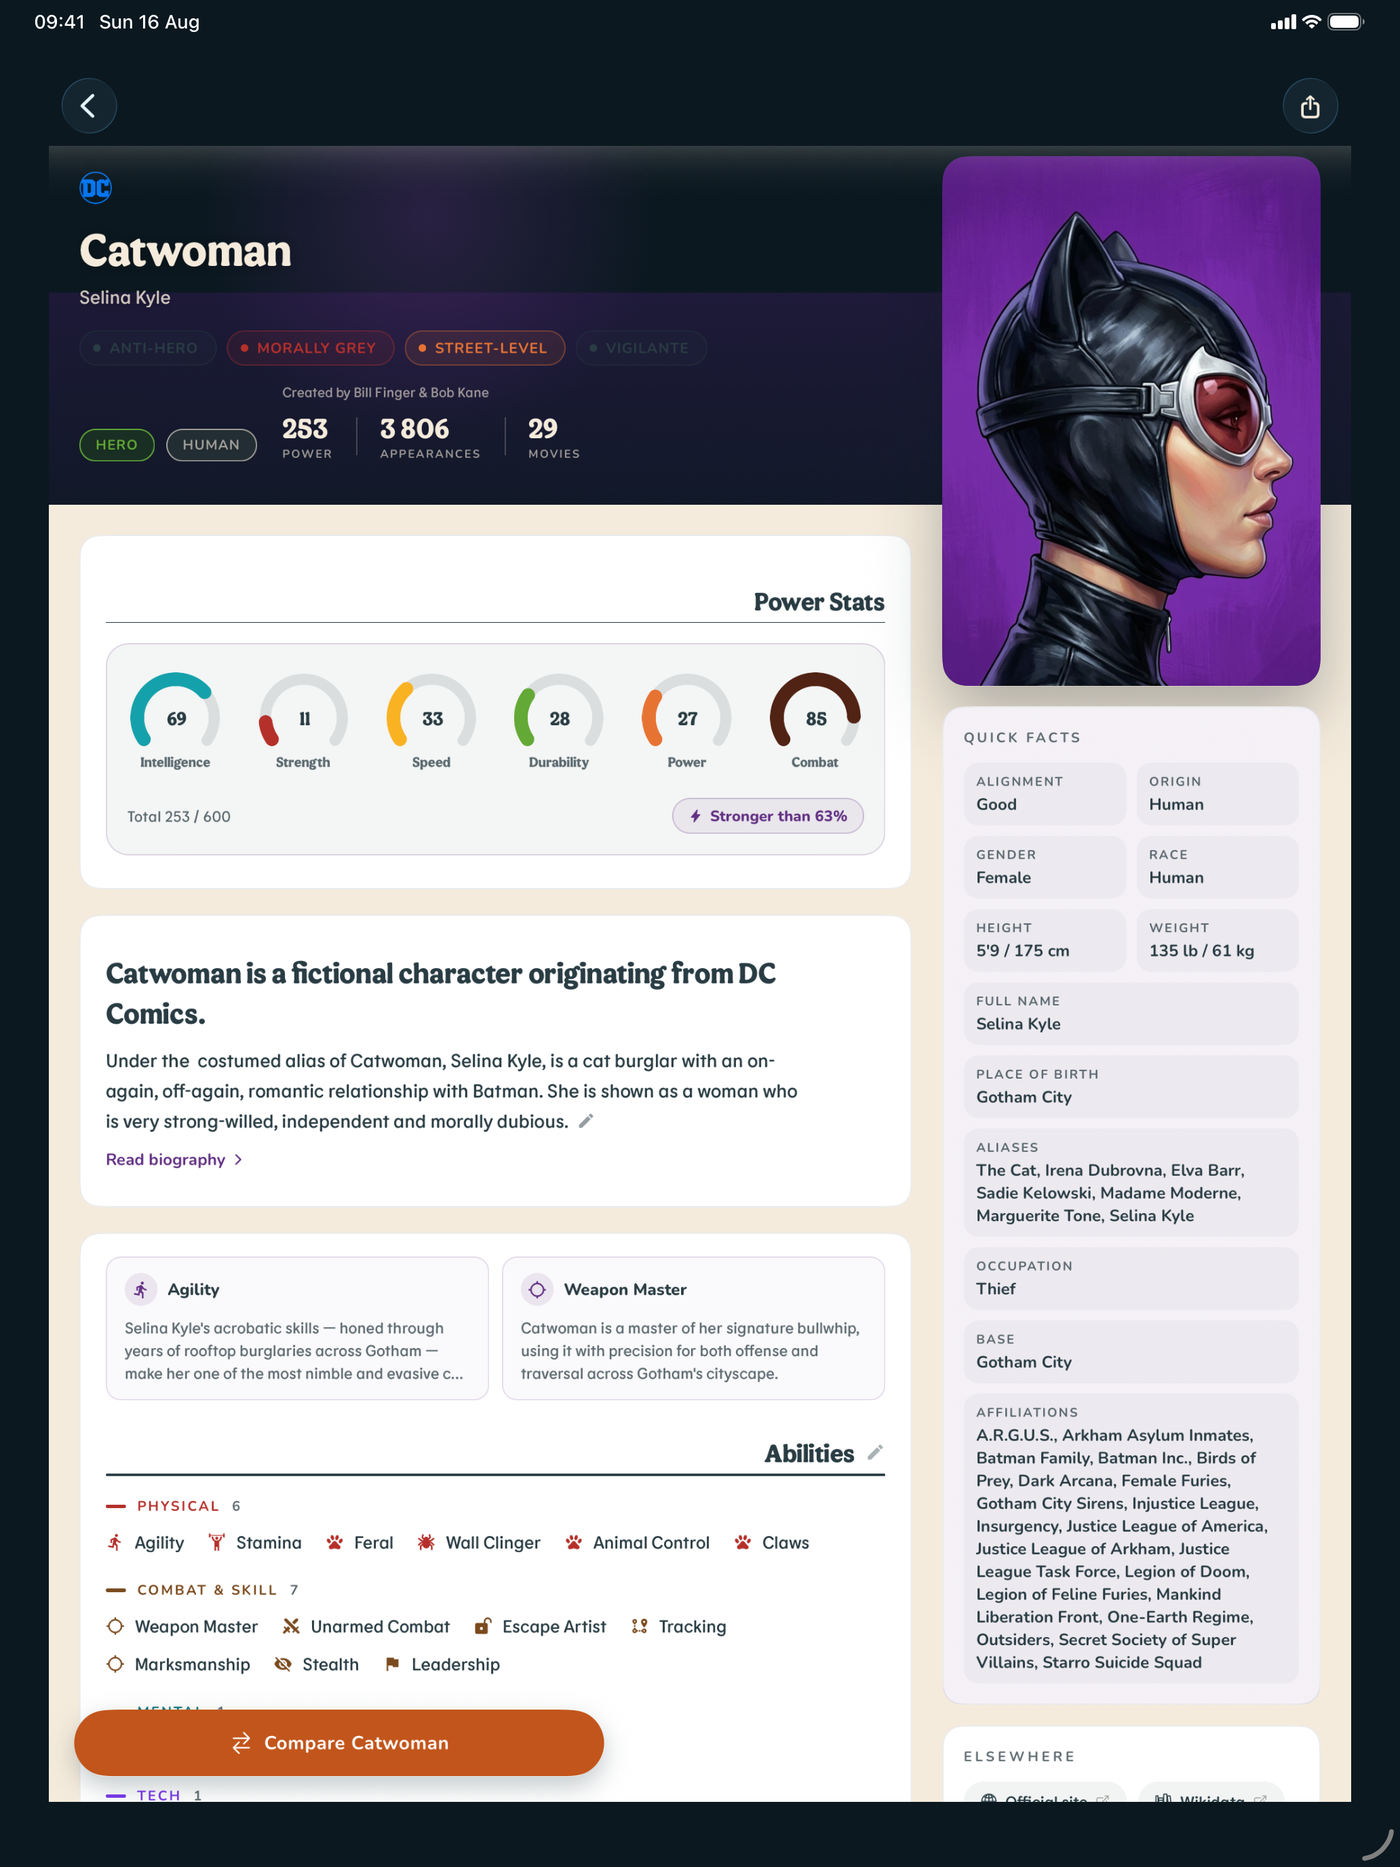
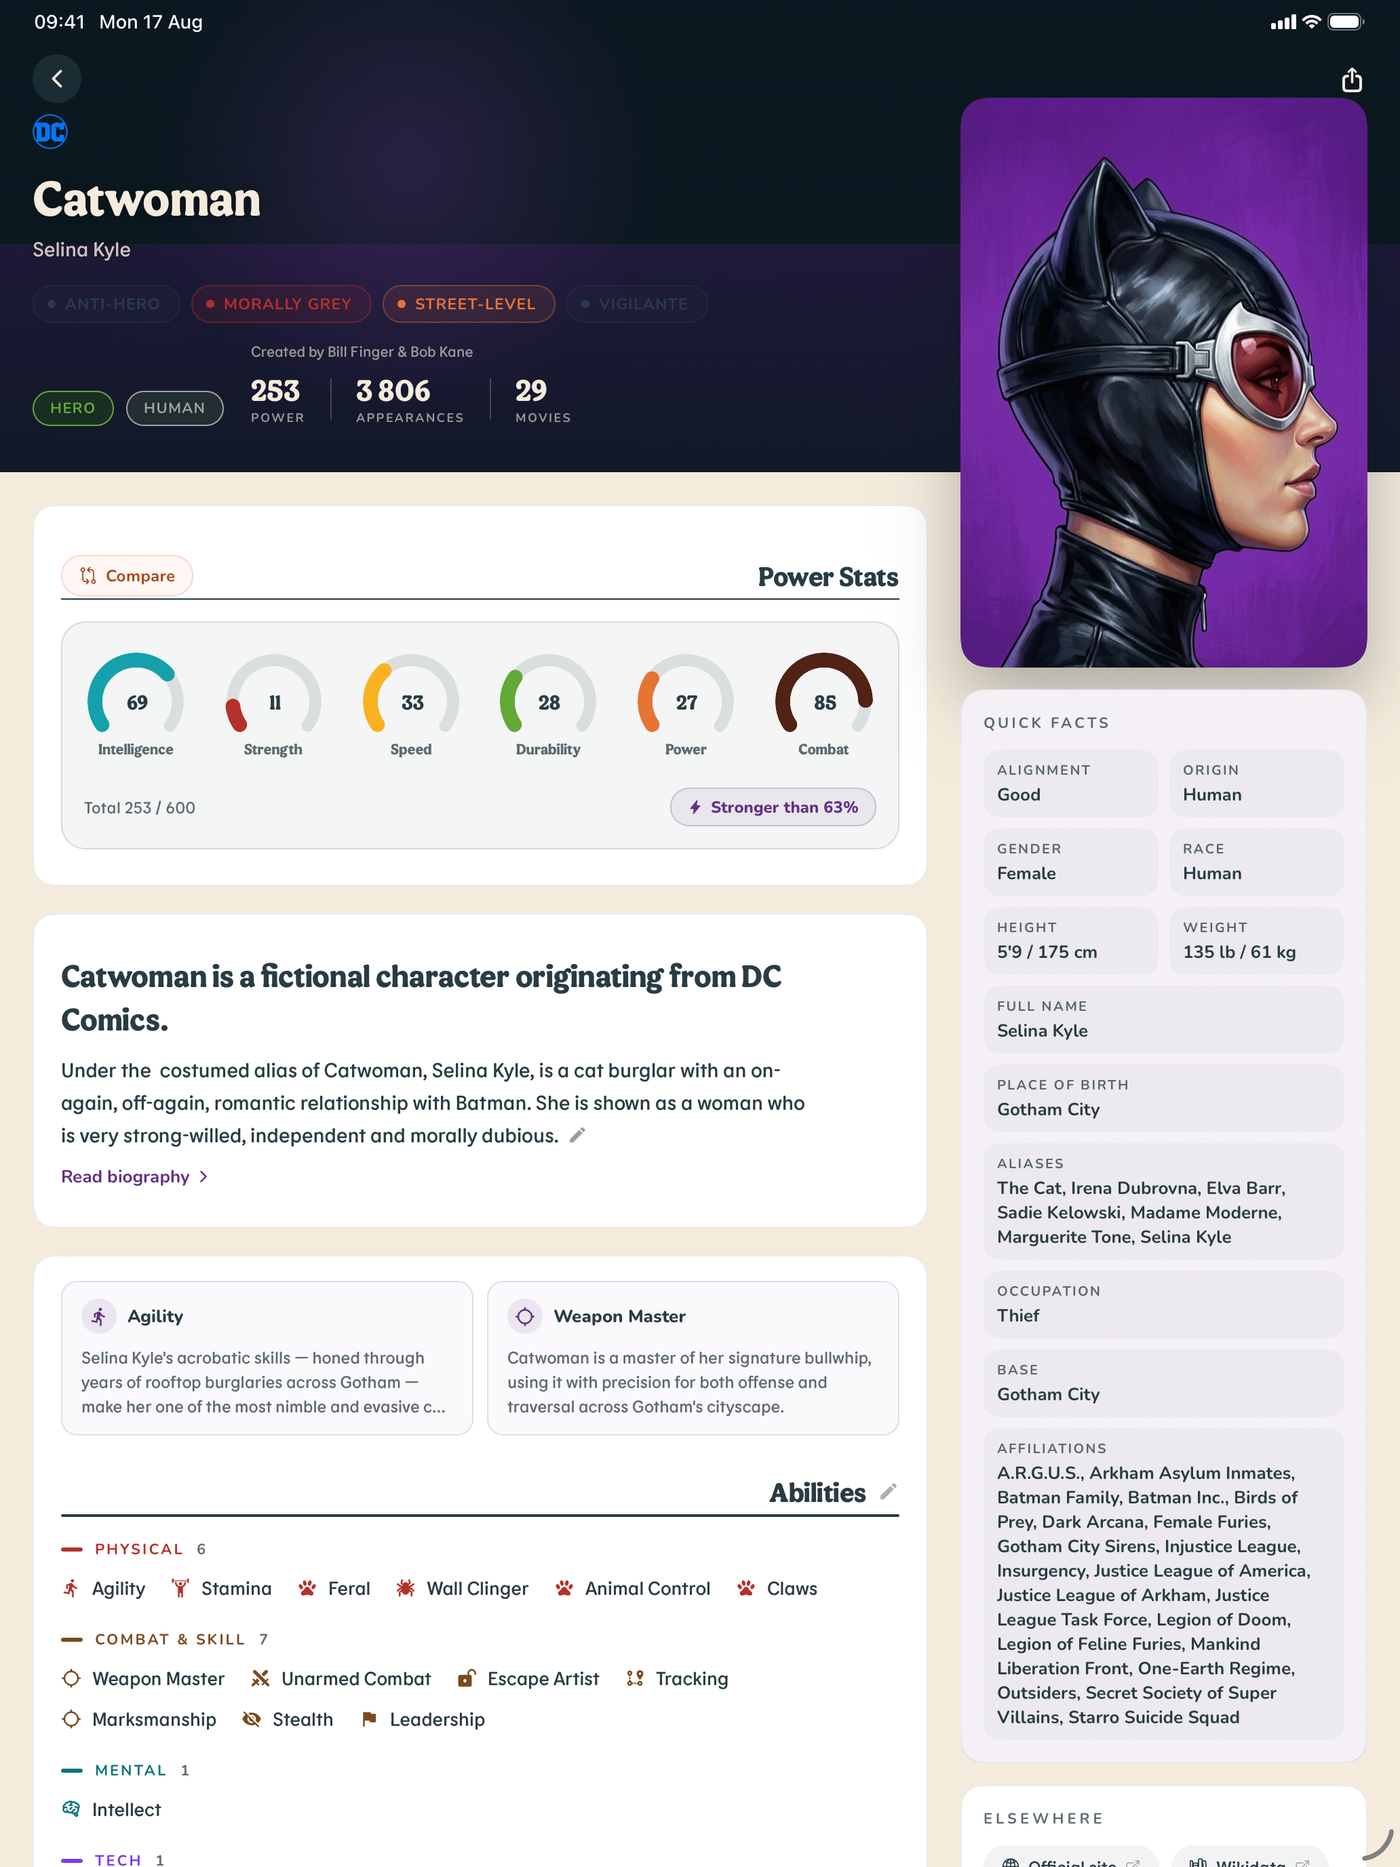
fix(character): the grey slab was a header we could not turn off, and a padding box
Two separate faults were stacked in the same 140pt strip on iPad.

The band's own layers — blurred backdrop, scrim, both blooms — are absolutely
positioned, and an absolute child is placed against its parent's PADDING box,
not its border box. The header clearance sat on `stage` itself, so all four
started BELOW it and the top strip was nothing but `stage`'s flat
backgroundColor. The clearance belongs on `stageInner`, which wraps only the
identity content that has to clear the status bar.

The rest was the native bar. `headerTransparent` does not mean "no bar" on
iOS 26 — the system paints Liquid Glass regardless, and no `headerBlurEffect`
value turns it off: `'none'` is literally react-native-screens' own default
enum (RNSScreenStackHeaderConfig.mm:84), identical to passing nothing, and
every named style is a real UIBlurEffect, which blends luminance but discards
hue. Measured over the band: no effect rgb(209,202,190), 'dark' rgb(68,66,62),
'systemUltraThinMaterialDark' rgb(125,123,120) — each a neutral grey with none
of the band's blue. Three attempts at a darker material each made it lighter.

So `split` runs headerShown: false and draws `floatingHeader` itself. A plain
View paints nothing unless told to, so the gaps between the chips are the
band's actual gradient — sampled at four columns, unbroken to y=0. The phone
keeps the native bar, where the header floats over photographic art and the
wash is invisible.
[…]

diff --git a/app/character/[id].tsx b/app/character/[id].tsx
@@ -254,15 +254,22 @@ function SectionPencil({
 function Section({
   title,
   action,
+  leadingAction,
   children,
 }: {
   title: string;
   action?: React.ReactNode;
+  /** Rendered at the row's LEFT edge, opposite the title. `sectionTitle` is
+   *  right-aligned and `sectionTitleGrow` gives it flex:1, so the title itself
+   *  supplies the gap between the two — no spacer, and it stays correct at
+   *  every card width. */
+  leadingAction?: React.ReactNode;
   children: React.ReactNode;
 }) {
   return (
     <View style={styles.section}>
       <View style={styles.sectionTitleRow}>
+        {leadingAction ?? null}
         <Text style={[styles.sectionTitle, styles.sectionTitleGrow]}>{title}</Text>
         {action ?? null}
       </View>
@@ -1226,6 +1233,30 @@ export default function CharacterScreen() {
       <View onLayout={registerAnchor('stats')}>
         <Section
           title="Power Stats"
+          /* Compare lives on the stats it acts on — web's placement, ported.
+             SPLIT only: on a phone it stays the thumb-reachable floating pill
+             at the bottom of the screen, which is what that pattern is for. On
+             a tablet there is no thumb to reach with, so the pill was just an
+             orange island hovering over the body copy at every scroll position,
+             anchored to nothing.
+
+             Left edge, opposite the right-aligned title: the action and the
+             label each own an end of the row instead of crowding one corner. */
+          leadingAction={
+            split && data ? (
+              <TouchableOpacity
+                onPress={() =>
+                  router.push(`/compare/${id}/pick?name=${encodeURIComponent(data.stats.name)}`)
+                }
+                style={styles.compareChip}
+                accessibilityRole="button"
+                accessibilityLabel={`Compare ${data.stats.name} with another character`}
+              >
+                <Ionicons name="git-compare-outline" size={14} color={ORANGE_INK} />
+                <Text style={styles.compareChipText}>Compare</Text>
+              </TouchableOpacity>
+            ) : undefined
+          }
           action={
             isAdmin ? (
               <SectionPencil
@@ -1777,10 +1808,17 @@ export default function CharacterScreen() {
 
   return (
     <View style={styles.container}>
-      {/* Native header — transparent over image, fades to beige on scroll */}
+      {/* Native header — transparent over image, fades to beige on scroll.
+          SPLIT ONLY on phone/stacked: on iOS 26 a transparent native header
+          still gets the system's own Liquid Glass material painted over it —
+          confirmed against react-native-screens' source, not fixable from
+          here (see the custom overlay below for the full account) — and a
+          light wash reads fine over busy photographic art but is a visible
+          seam over the split band's flat navy. So `split` skips the native
+          bar entirely and draws its own, further down. */}
       <Stack.Screen
         options={{
-          headerShown: true,
+          headerShown: !split,
           headerTransparent: true,
           headerShadowVisible: false,
           // Chevron only — without this iOS labels the back button with the
@@ -1792,17 +1830,6 @@ export default function CharacterScreen() {
           // its own hard-coded COLORS.black and read as a dark smudge inside
           // the glass chip iOS 26 draws around it.
           headerTintColor: HEADER_TINT,
-          // `headerTransparent` alone does not mean "no bar" on iOS 26 — left
-          // to pick its own material the system draws a glass one regardless,
-          // and every NAMED blur effect was still LIGHT over the dark band: no
-          // effect gave rgb(209,202,190), 'dark' gave rgb(68,66,62), and
-          // 'systemUltraThinMaterialDark' gave rgb(125,123,120) — each a
-          // neutral grey with none of the band's blue, painted as a slab
-          // across the top of the identity. The fix isn't a different
-          // material, it's none at all: 'none' switches off the glass
-          // entirely, so the header is truly transparent and the band's own
-          // ink runs straight underneath it, uninterrupted.
-          headerBlurEffect: 'none',
           headerStyle: { backgroundColor: 'transparent' },
           headerTitleAlign: 'center',
           headerTitle: () => (
@@ -1950,12 +1977,23 @@ export default function CharacterScreen() {
              columns a shared origin; without it they are two unrelated
              scrolls that happen to sit side by side. ─────────────────────── */
           <>
-            <View style={[styles.stage, { paddingTop: insets.top + 52 }]}>
+            <View style={styles.stage}>
               {/* Web's band is four layers deep and native's was one flat navy
                   rectangle. Ported from `[id].web.tsx`'s stage: the character's
                   own art blurred behind everything, a scrim for legibility, and
                   the accent blooms that let the character's colour own the band
-                  instead of every hero getting the same slab. */}
+                  instead of every hero getting the same slab.
+
+                  These layers are absolutely positioned, and an absolute child
+                  is placed relative to its parent's PADDING box, not its border
+                  box — so putting the header's top clearance on `.stage` itself
+                  left a bare strip above all four of them, painted only with
+                  `.stage`'s own flat backgroundColor: exactly the "grey slab
+                  turned solid navy slab" the transparent-header fix didn't
+                  touch. The clearance belongs on `stageInner` below, which
+                  wraps only the identity content that needs pushing clear of
+                  the status bar/nav bar — not on the layers meant to bleed
+                  under it. */}
               {heroImageUrl || heroPortraitUrl ? (
                 <HeroImage
                   id={id ?? 'hero'}
@@ -1985,7 +2023,9 @@ export default function CharacterScreen() {
                 style={styles.bloomName}
               />
               <RadialBloom color={COLORS.orange} size={300} opacity={0.1} style={styles.bloomFar} />
-              <View style={styles.stageInner}>{identityNode}</View>
+              <View style={[styles.stageInner, { paddingTop: insets.top + 52 }]}>
+                {identityNode}
+              </View>
             </View>
             <View style={styles.body} onLayout={onSectionsLayout}>
               <View style={styles.bodyInner}>
@@ -2072,6 +2112,90 @@ export default function CharacterScreen() {
         )}
       </Animated.ScrollView>
 
+      {/* SPLIT's own header — pinned above the ScrollView (a sibling, not a
+          scroll child) so it stays fixed exactly like the native bar it
+          replaces. Ours instead of native's because iOS 26 cannot render a
+          truly clear native header — `headerTransparent` still gets the
+          system's own Liquid Glass material painted over it regardless of
+          `headerBlurEffect` (confirmed against react-native-screens' source:
+          `'none'` is literally its own default enum, not a real "off"), and
+          every named material blends luminance but discards hue, so none of
+          them will ever read as the band's navy — a light wash sits over the
+          band no matter what's asked for. A plain RN View has none of that:
+          it draws nothing unless we paint something, so the space between
+          these chips is genuinely, exactly the band's own gradient. The
+          back/share/favourite controls keep the same chip styling the native
+          header already used, so the swap is invisible except for the seam
+          it removes. */}
+      {split ? (
+        <View
+          style={[styles.floatingHeader, { paddingTop: insets.top + 8 }]}
+          pointerEvents="box-none"
+        >
+          <TouchableOpacity
+            onPress={() => router.back()}
+            hitSlop={{ top: 8, bottom: 8, left: 8, right: 8 }}
+            style={styles.headerBtn}
+            accessibilityRole="button"
+            accessibilityLabel="Go back"
+          >
+            <Ionicons name="chevron-back" size={20} color={HEADER_TINT} />
+          </TouchableOpacity>
+          <Animated.Text
+            maxFontSizeMultiplier={MAX_TYPE_SCALE}
+            numberOfLines={1}
+            style={[
+              styles.headerTitle,
+              styles.floatingHeaderTitle,
+              {
+                opacity: headerNameOpacity,
+                transform: [{ scale: headerNameScale }, { translateY: headerNameY }],
+              },
+            ]}
+          >
+            {displayName}
+          </Animated.Text>
+          <View style={styles.headerActions}>
+            <TouchableOpacity
+              onPress={handleShare}
+              hitSlop={{ top: 8, bottom: 8, left: 8, right: 8 }}
+              accessibilityRole="button"
+              accessibilityLabel="Share character"
+            >
+              <SymbolView
+                name="square.and.arrow.up"
+                weight="bold"
+                tintColor={HEADER_TINT}
+                size={22}
+                resizeMode="scaleAspectFit"
+                style={styles.headerShareIcon}
+                fallback={<Ionicons name="share-outline" size={23} color={HEADER_TINT} />}
+              />
+            </TouchableOpacity>
+            {user ? (
+              <TouchableOpacity
+                onPress={toggleFavourite}
+                disabled={favLoading}
+                hitSlop={{ top: 8, bottom: 8, left: 8, right: 8 }}
+                style={styles.headerBtn}
+                accessibilityRole="button"
+                accessibilityLabel={favourited ? 'Remove from favourites' : 'Add to favourites'}
+                accessibilityState={{ selected: favourited }}
+              >
+                <Ionicons
+                  name={favourited ? 'heart' : 'heart-outline'}
+                  size={20}
+                  color={favourited ? COLORS.red : COLORS.beige}
+                />
+                {favCount > 0 ? (
+                  <Text style={styles.favCount}>{favCount > 999 ? '999+' : String(favCount)}</Text>
+                ) : null}
+              </TouchableOpacity>
+            ) : null}
+          </View>
+        </View>
+      ) : null}
+
       {/* Section quick-nav — floating jump bar that fades in once the content
           covers the hero image. pointerEvents follows visibility so the hidden
           bar never swallows taps meant for the portrait. */}
@@ -2155,8 +2279,10 @@ export default function CharacterScreen() {
       ) : null}
 
       {/* Floating Compare pill — hovers above the safe area; content scrolls
-          under it (box-none lets touches pass through the transparent margins). */}
-      {data && (
+          under it (box-none lets touches pass through the transparent margins).
+          Phone only: on the split layout Compare is a chip in the Power Stats
+          header instead, matching web — see `statsNode`. */}
+      {data && !split && (
         <View style={compareStripStyle} pointerEvents="box-none">
           <TouchableOpacity
             onPress={() =>
@@ -2309,6 +2435,28 @@ const styles = StyleSheet.create({
     fontFamily: 'Flame-Regular',
     fontSize: 18,
     color: COLORS.navy,
+  },
+  // SPLIT's own header — see the render-site comment for why this exists
+  // instead of the native bar. Pinned like the native bar was, but a plain
+  // View paints nothing of its own, so the gaps between these chips are the
+  // band's actual gradient, not a system material approximating it.
+  floatingHeader: {
+    position: 'absolute',
+    top: 0,
+    left: 0,
+    right: 0,
+    flexDirection: 'row',
+    alignItems: 'center',
+    justifyContent: 'space-between',
+    paddingHorizontal: 24,
+  },
+  // Always over the dark band, never over beige — HEADER_TINT (not
+  // `headerTitle`'s navy, which assumes the phone header's beige backdrop).
+  floatingHeaderTitle: {
+    flex: 1,
+    textAlign: 'center',
+    marginHorizontal: 12,
+    color: HEADER_TINT,
   },
   scroll: { flex: 1 },
 
@@ -2894,6 +3042,28 @@ const styles = StyleSheet.create({
   },
   navChipText: { fontFamily: 'Nunito_700Bold', fontSize: 12, color: COLORS.navy },
   navChipTextActive: { color: COLORS.beige },
+
+  // Contextual Compare (split only) — web's `compareBtn`, stop for stop, but
+  // at the header's LEFT edge (`leadingAction`) rather than crowding the admin
+  // pencil on the right.
+  compareChip: {
+    flexDirection: 'row',
+    alignItems: 'center',
+    gap: 6,
+    borderWidth: 1,
+    borderColor: COLORS.orange + '40',
+    backgroundColor: COLORS.orange + '0f',
+    paddingHorizontal: 12,
+    paddingVertical: 6,
+    borderRadius: 20,
+    borderCurve: 'continuous',
+  },
+  compareChipText: {
+    fontFamily: 'Nunito_700Bold',
+    fontSize: 12,
+    color: ORANGE_INK,
+    letterSpacing: 0.2,
+  },
 
   // Floating Compare pill — transparent container, no slab, so the beige page
   // reads to the bottom edge and the pill simply hovers over it.

diff --git a/docs/features/character-page.md b/docs/features/character-page.md
@@ -133,9 +133,21 @@ or scrolls to nothing.
 | Family                  | `FamilyCanvas` + `HouseLinks`                                                                                                 | `useHeroFamily` — see `docs/architecture/family-trees-and-houses.md`       |
 | Footer                  | "Contribute to this character" expanding menu                                                                                 | —                                                                          |
 
-A sticky **Compare** CTA rides the bottom of the screen (`compareStrip`,
-native) and sits contextually on the Power Profile card (web), routing to
-`/compare/[id]/pick`. Modals: `FirstIssueModal`, `ImageLightbox`.
+The **Compare** CTA routes to `/compare/[id]/pick` and takes one of two forms,
+by layout rather than by platform:
+
+- **Phone / tablet-portrait** — a sticky pill riding the bottom of the screen
+  (`compareStrip`). A thumb-reachable bottom CTA, which is what that pattern is
+  for.
+- **Split (tablet landscape) and web** — a contextual chip in the **Power
+  Stats** header, on the stats it acts on. There is no thumb to reach with on a
+  tablet, so the floating pill was only an orange island hovering over the body
+  copy at every scroll position. Native passes it as `Section`'s
+  `leadingAction`, which renders at the row's LEFT edge; because `sectionTitle`
+  is right-aligned with `flex: 1`, the title itself supplies the gap between
+  chip and label at every card width — no spacer.
+
+Modals: `FirstIssueModal`, `ImageLightbox`.
 
 ### The page's card language — there is no white card
 
@@ -376,6 +388,39 @@ No header means no header-anchored effect.
 
 Any other native screen that pairs a transparent header with a dark full-bleed
 top will hit the same thing on iOS 26+.
+
+### The split layout draws its own header
+
+The character page hits the same wall one step further on, and answers it the
+same way: **`headerShown: !split`**. On the split layout the native bar is off
+and `floatingHeader` — a plain absolutely-positioned RN `View`, sibling to the
+ScrollView — carries the back chevron, the animated title, share and
+favourite.
+
+The reason is that `headerTransparent` does not mean "no bar" on iOS 26. The
+system paints its own Liquid Glass material regardless, and **no
+`headerBlurEffect` value turns it off**:
+
+- `'none'` looks like the escape hatch but is literally react-native-screens'
+  own default enum (`RNSBlurEffectStyleNone`,
+  `RNSScreenStackHeaderConfig.mm:84`) — identical to passing nothing.
+- Every named style is a real `UIBlurEffect`, which blends luminance but
+  **discards hue**, so none of them can ever read as the band's navy. Measured
+  over the band: no effect `rgb(209,202,190)`, `'dark'` `rgb(68,66,62)`,
+  `'systemUltraThinMaterialDark'` `rgb(125,123,120)` — each a neutral grey slab
+  across the top of the identity.
+
+Over the phone layout's busy photographic art a light wash is invisible; over
+the split band's flat ink it is a hard seam. A plain `View` paints nothing
+unless told to, so the space between the chips is the band's actual gradient.
+
+Two things were also wrong underneath it, and both had to be fixed before the
+seam went away — **an absolutely-positioned child is placed against its
+parent's PADDING box, not its border box.** The stage's top clearance sat on
+`stage` itself, so the backdrop, scrim and blooms all started below it and the
+top strip was nothing but `stage`'s flat `backgroundColor`. The clearance
+belongs on `stageInner`, which wraps only the identity content that needs to
+clear the status bar — never on the layers meant to bleed under it.
 
 ### One tint for both sides of the header
 
